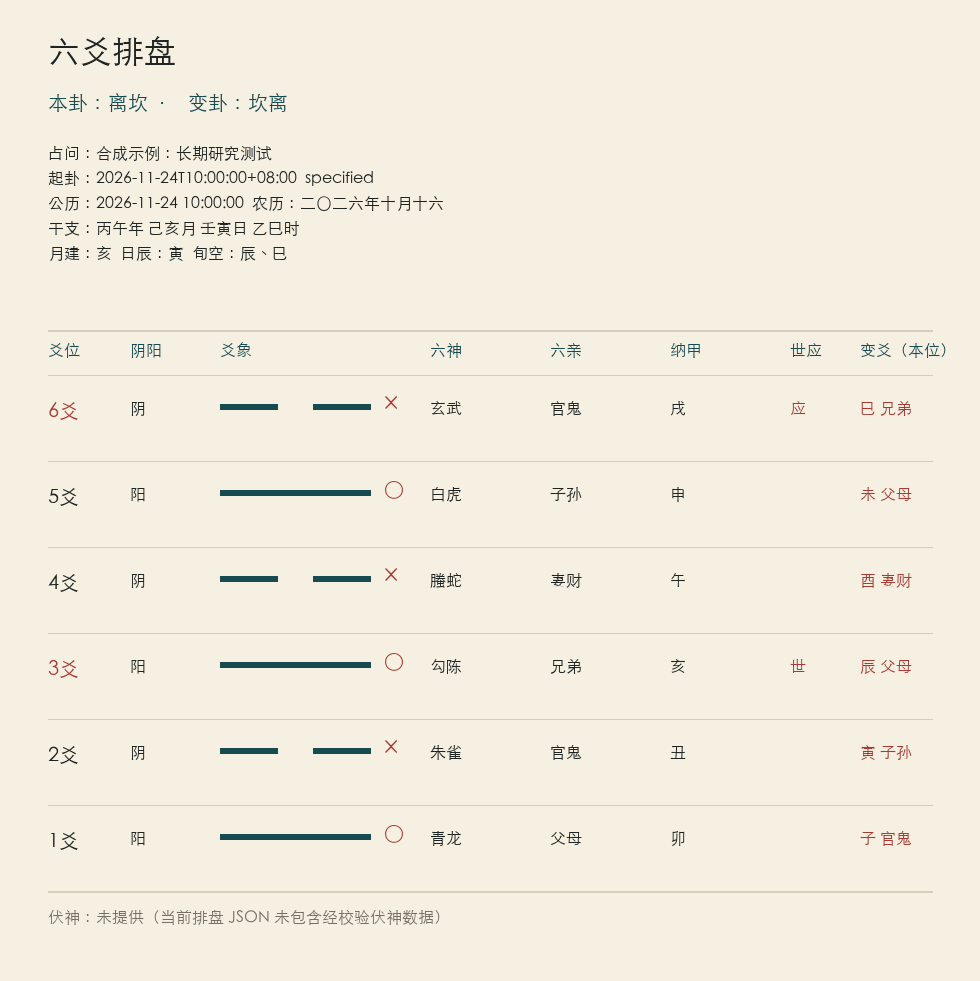
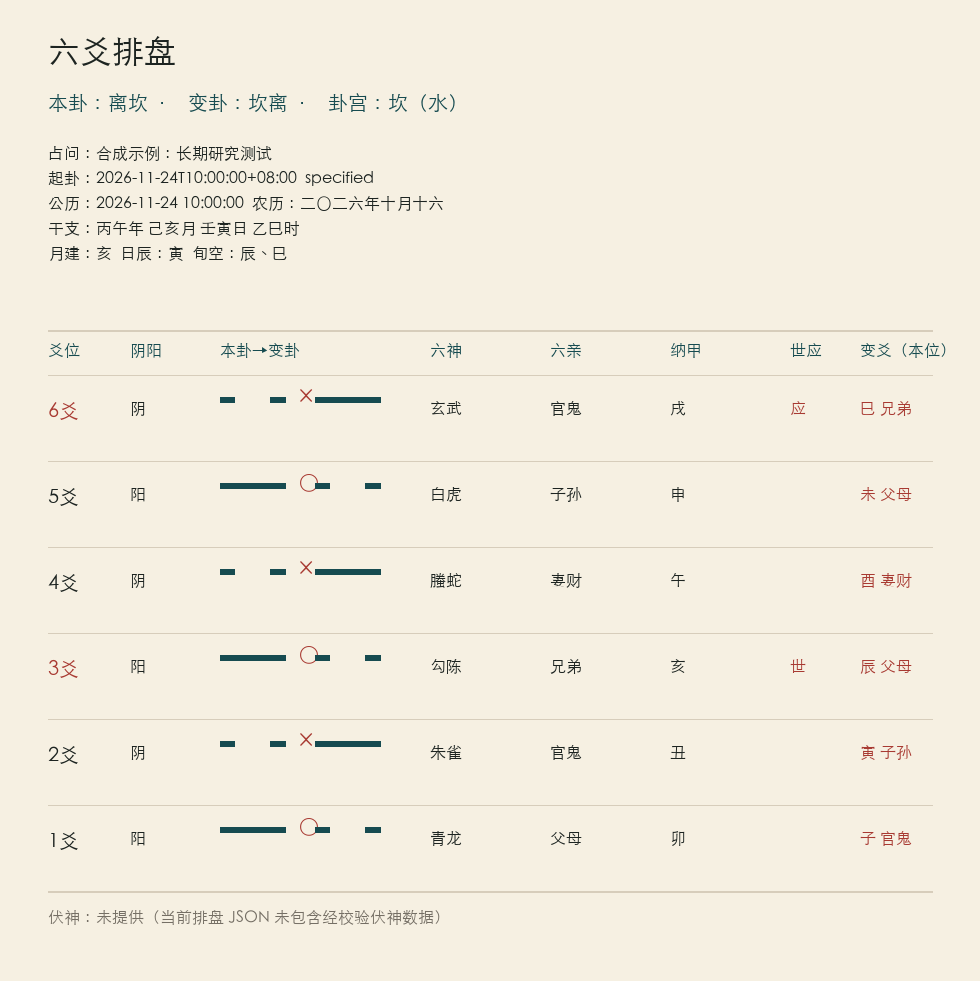
Show palace metadata and changed hexagram lines

diff --git a/liuyao/renderer.py b/liuyao/renderer.py
@@ -57,13 +57,14 @@ def render_chart(chart_data, output_path, theme='classic', scale=2, font_path=No
     image=Image.new('RGB',(W,H),PAPER); draw=ImageDraw.Draw(image)
     _text(draw,(margin,35*scale),'六爻排盘',title,INK)
     primary=chart_data.get('primary_hexagram',{}); changed=chart_data.get('changed_hexagram')
-    _text(draw,(margin,92*scale),f"本卦：{primary.get('name','未提供')}  ·  变卦：{changed.get('name') if changed else '静卦（无变卦）'}",body,TEAL)
+    palace=(chart_data.get('lines') or [{}])[0]
+    _text(draw,(margin,92*scale),f"本卦：{primary.get('name','未提供')}  ·  变卦：{changed.get('name') if changed else '静卦（无变卦）'}  ·  卦宫：{palace.get('palace','未提供')}（{palace.get('palace_element','未提供')}）",body,TEAL)
     cal=chart_data.get('calendar') or {}; cast=chart_data.get('casting') or {}
     info=[f"占问：{chart_data.get('question','未提供')}",f"起卦：{chart_data.get('created_at',cal.get('input','未提供'))}  {cast.get('method','未提供')}",f"公历：{cal.get('solar','未提供')}  农历：{cal.get('lunar','未提供')}",f"干支：{cal.get('year_ganzhi','未提供')}年 {cal.get('month_ganzhi','未提供')}月 {cal.get('day_ganzhi','未提供')}日 {cal.get('time_ganzhi','未提供')}时",f"月建：{cal.get('month_branch','未提供')}  日辰：{cal.get('day_branch','未提供')}  旬空：{'、'.join(cal.get('旬空',[])) or '未提供'}"]
     y=145*scale
     for line in info:
         for part in _wrap(line,70): _text(draw,(margin,y),part,small); y+=25*scale
-    headers=['爻位','阴阳','爻象','六神','六亲','纳甲','世应','变爻（本位）']
+    headers=['爻位','阴阳','本卦→变卦','六神','六亲','纳甲','世应','变爻（本位）']
     xs=[margin,130*scale,220*scale,430*scale,550*scale,670*scale,790*scale,860*scale]
     y=top
     draw.line((margin,y,W-margin,y),fill=GRID,width=2*scale)
@@ -73,7 +74,11 @@ def render_chart(chart_data, output_path, theme='classic', scale=2, font_path=No
         draw.line((margin,y,W-margin,y),fill=GRID,width=scale)
         _text(draw,(xs[0],y+25*scale),f"{row['position']}爻",body,RED if row.get('role') in ('世','应') else INK)
         _text(draw,(xs[1],y+25*scale),'阴' if row['yin'] else '阳',small)
-        _line(draw,xs[2],y+29*scale,150*scale,row['yin'],row['moving'],body)
+        _line(draw,xs[2],y+22*scale,65*scale,row['yin'],row['moving'],body)
+        bits=(changed or {}).get('bits') if changed else None
+        changed_yin=(bits[row['position']-1]==0) if bits else None
+        if changed_yin is not None:
+            _line(draw,xs[2]+95*scale,y+22*scale,65*scale,changed_yin,False,body)
         _text(draw,(xs[3],y+25*scale),row.get('spirit','未提供'),small)
         _text(draw,(xs[4],y+25*scale),row.get('relative','未提供'),small)
         _text(draw,(xs[5],y+25*scale),row.get('branch','未提供'),small)
